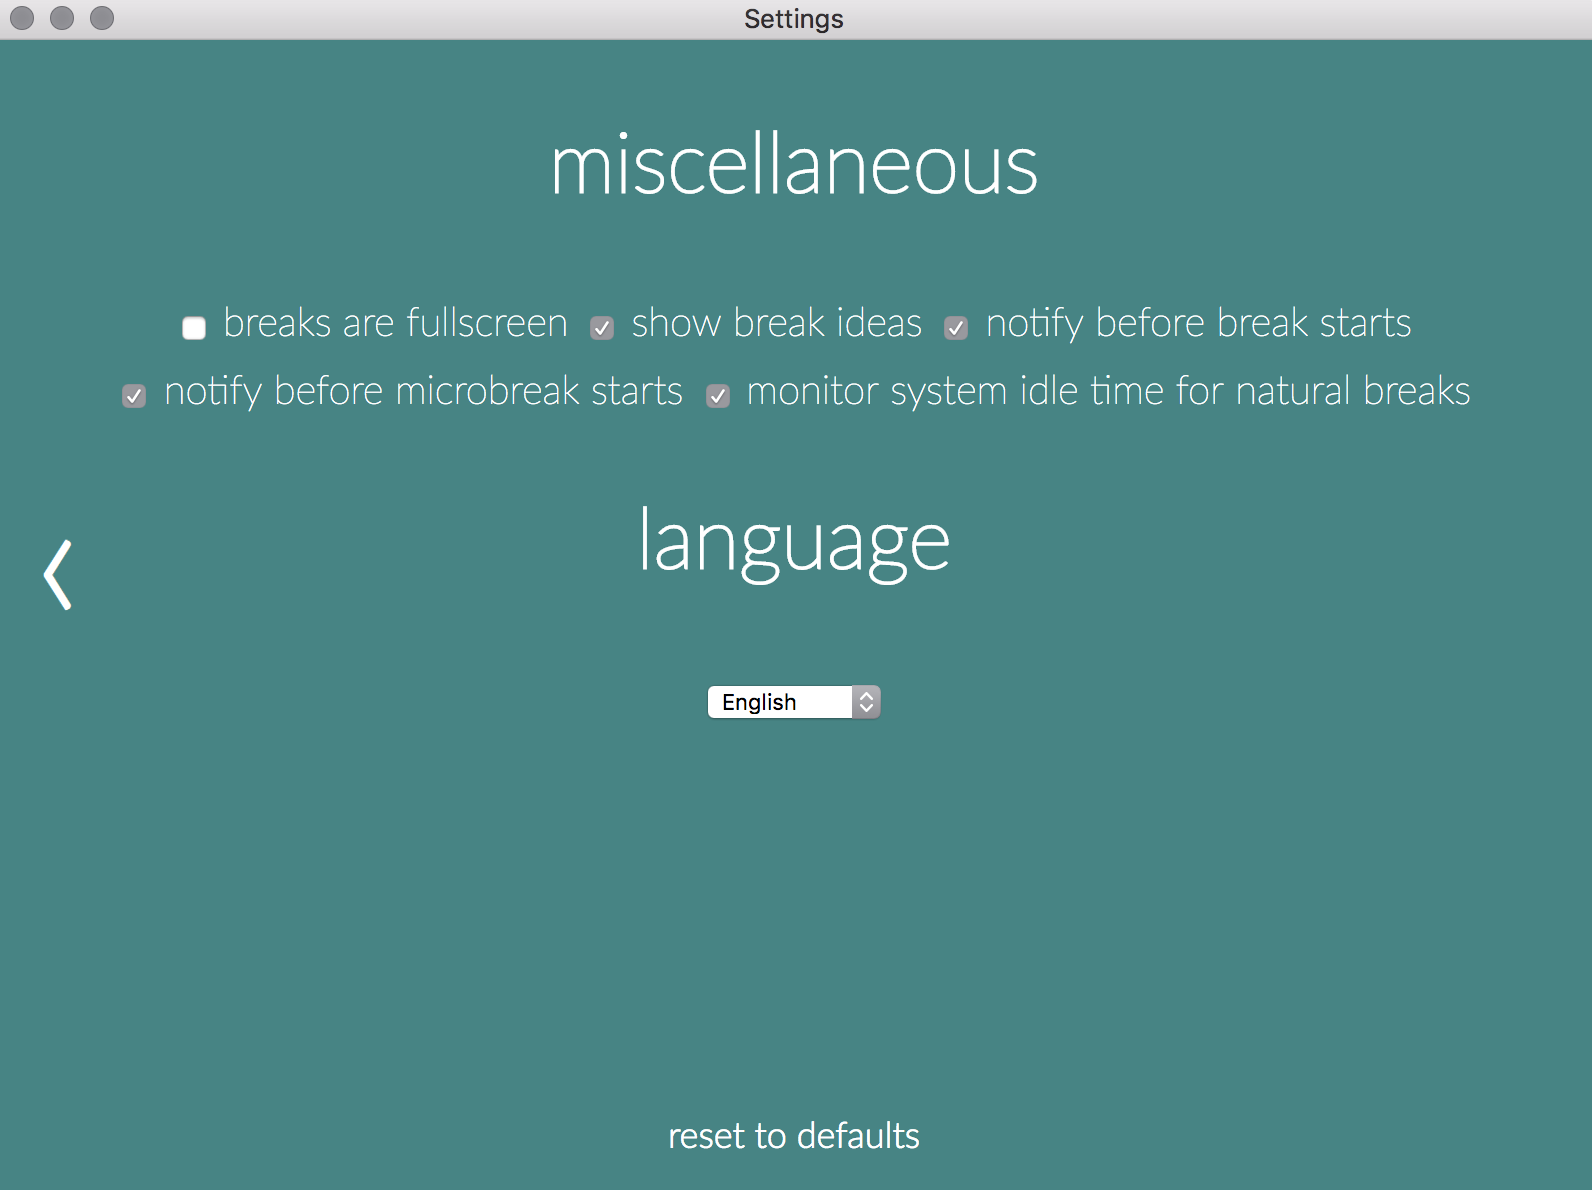
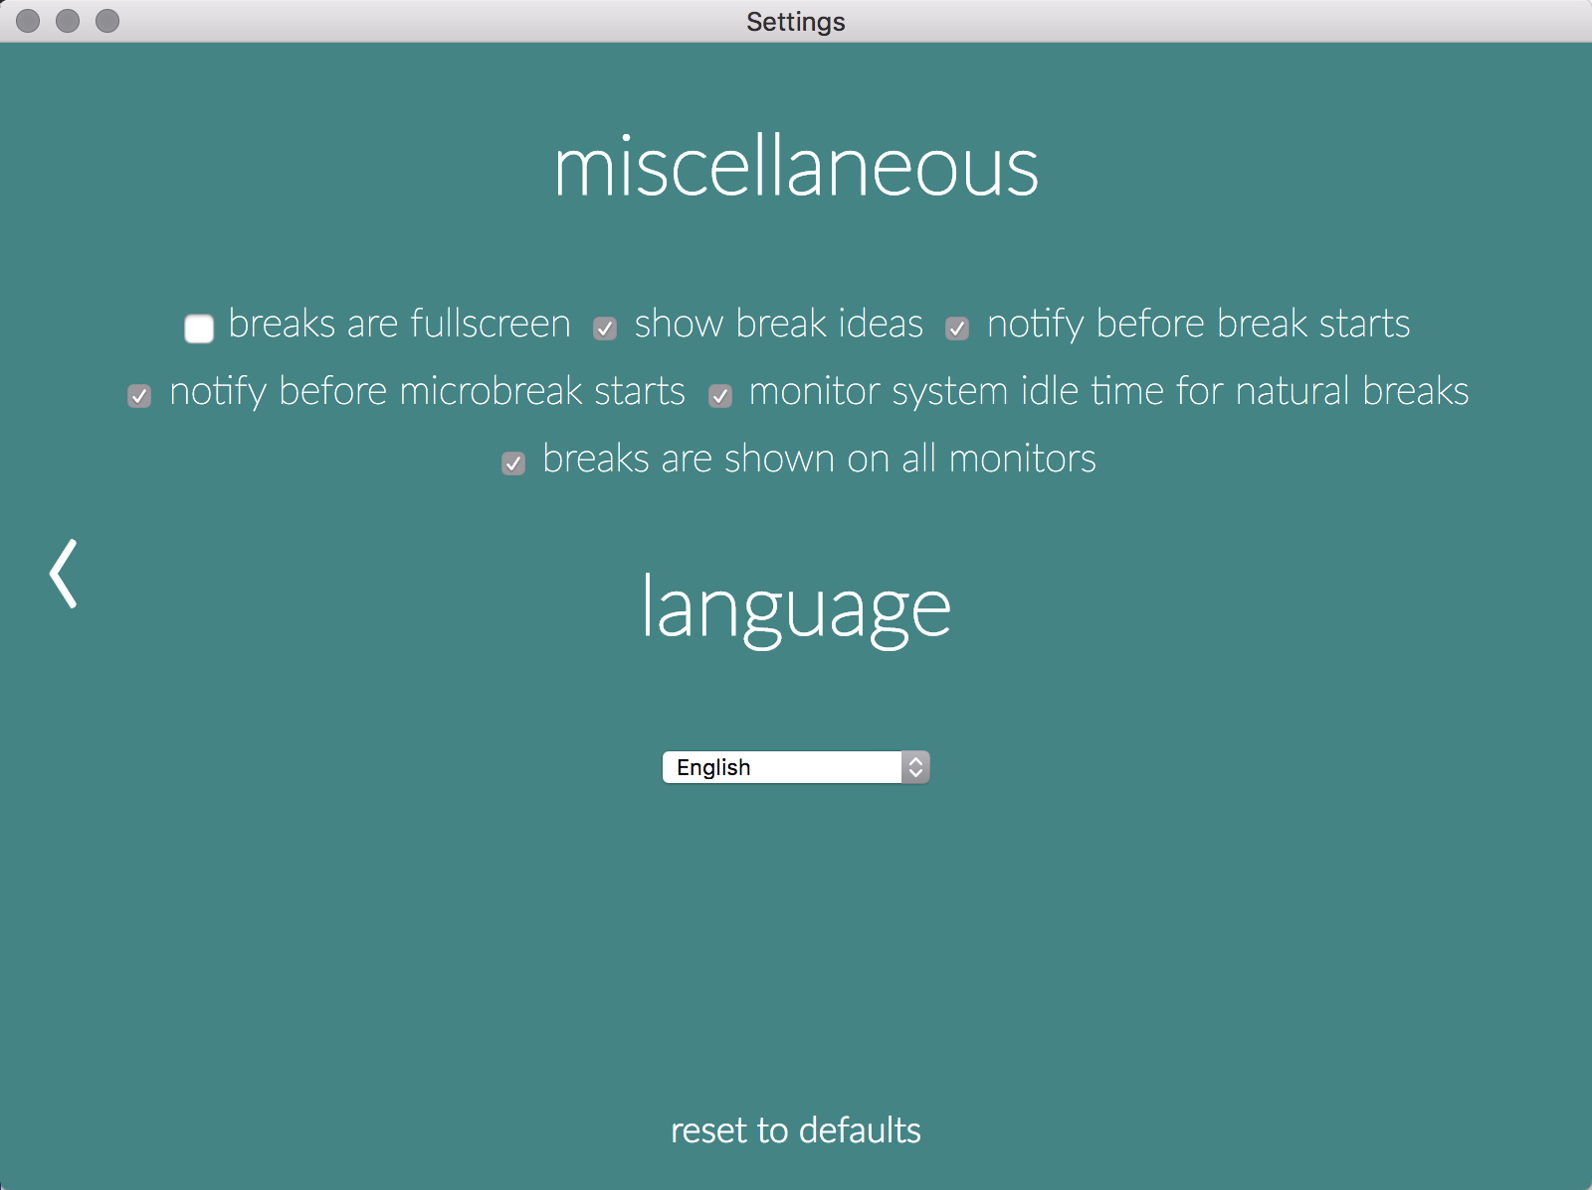
[WIP] Added multi-monitor support for breaks. (#188)
Added multi-monitor support for breaks.

diff --git a/app/main.js b/app/main.js
@@ -16,8 +16,8 @@ let breakIdeas
 let breakPlanner
 let appIcon = null
 let processWin = null
-let microbreakWin = null
-let breakWin = null
+let microbreakWins = null
+let breakWins = null
 let aboutWin = null
 let settingsWin = null
 let settings
@@ -89,16 +89,47 @@ function startPowerMonitoring () {
   })
 }
 
-function displaysX (width = 800) {
+function numberOfDisplays () {
   const electron = require('electron')
-  let theScreen = electron.screen.getDisplayNearestPoint(electron.screen.getCursorScreenPoint())
+  return electron.screen.getAllDisplays().length
+}
+
+function closeWindows (windowArray) {
+  for (let i = windowArray.length - 1; i >= 0; i--) {
+    windowArray[i].close()
+  }
+}
+
+function displaysX (displayID = -1, width = 800) {
+  const electron = require('electron')
+  let theScreen
+  if (displayID === -1) {
+    theScreen = electron.screen.getDisplayNearestPoint(electron.screen.getCursorScreenPoint())
+  } else if (displayID >= numberOfDisplays() || displayID < 0) {
+    // Graceful handling of invalid displayID
+    console.log('warning: invalid displayID to displaysX')
+    theScreen = electron.screen.getDisplayNearestPoint(electron.screen.getCursorScreenPoint())
+  } else {
+    let screens = electron.screen.getAllDisplays()
+    theScreen = screens[displayID]
+  }
   let bounds = theScreen.bounds
   return Math.ceil(bounds.x + ((bounds.width - width) / 2))
 }
 
-function displaysY (height = 600) {
+function displaysY (displayID = -1, height = 600) {
   const electron = require('electron')
-  let theScreen = electron.screen.getDisplayNearestPoint(electron.screen.getCursorScreenPoint())
+  let theScreen
+  if (displayID === -1) {
+    theScreen = electron.screen.getDisplayNearestPoint(electron.screen.getCursorScreenPoint())
+  } else if (displayID >= numberOfDisplays()) {
+    // Graceful handling of invalid displayID
+    console.log('warning: invalid displayID to displaysY')
+    theScreen = electron.screen.getDisplayNearestPoint(electron.screen.getCursorScreenPoint())
+  } else {
+    let screens = electron.screen.getAllDisplays()
+    theScreen = screens[displayID]
+  }
   let bounds = theScreen.bounds
   return Math.ceil(bounds.y + ((bounds.height - height) / 2))
 }
@@ -156,7 +187,7 @@ function startMicrobreak () {
     return
   }
   // don't start another break if break running
-  if (microbreakWin) {
+  if (microbreakWins) {
     console.log('microbreak already running')
     return
   }
@@ -166,31 +197,44 @@ function startMicrobreak () {
     })
   }
   const modalPath = `file://${__dirname}/microbreak.html`
-  microbreakWin = new BrowserWindow({
-    icon: `${__dirname}/images/stretchly_18x18.png`,
-    x: displaysX(),
-    y: displaysY(),
-    frame: false,
-    show: false,
-    backgroundColor: settings.get('mainColor'),
-    skipTaskbar: true,
-    focusable: false,
-    title: 'stretchly'
-  })
-  // microbreakWin.webContents.openDevTools()
-  microbreakWin.once('ready-to-show', () => {
-    let idea = null
-    if (settings.get('ideas')) {
-      idea = microbreakIdeas.randomElement
+  microbreakWins = []
+
+  let idea = null
+  if (settings.get('ideas')) {
+    idea = microbreakIdeas.randomElement
+  }
+
+  for (let displayIdx = 0; displayIdx < numberOfDisplays(); displayIdx++) {
+    let microbreakWinLocal = new BrowserWindow({
+      icon: `${__dirname}/images/stretchly_18x18.png`,
+      x: displaysX(displayIdx),
+      y: displaysY(displayIdx),
+      frame: false,
+      show: false,
+      backgroundColor: settings.get('mainColor'),
+      skipTaskbar: true,
+      focusable: false,
+      title: 'stretchly'
+    })
+    // microbreakWinLocal.webContents.openDevTools()
+    microbreakWinLocal.once('ready-to-show', () => {
+      microbreakWinLocal.show()
+      microbreakWinLocal.setFullScreen(settings.get('fullscreen'))
+      if (displayIdx === 0) {
+        breakPlanner.emit('microbreakStarted', true)
+      }
+      microbreakWinLocal.webContents.send('microbreakIdea', idea, settings.get('microbreakStrictMode'))
+      microbreakWinLocal.webContents.send('progress', Date.now(), settings.get('microbreakDuration'))
+      microbreakWinLocal.setAlwaysOnTop(true)
+    })
+    microbreakWinLocal.loadURL(modalPath)
+    microbreakWins.push(microbreakWinLocal)
+
+    if (!settings.get('allScreens')) {
+      break
     }
-    microbreakWin.show()
-    microbreakWin.setFullScreen(settings.get('fullscreen'))
-    breakPlanner.emit('microbreakStarted', true)
-    microbreakWin.webContents.send('microbreakIdea', idea, settings.get('microbreakStrictMode'))
-    microbreakWin.webContents.send('progress', Date.now(), settings.get('microbreakDuration'))
-    microbreakWin.setAlwaysOnTop(true)
-  })
-  microbreakWin.loadURL(modalPath)
+  }
+
   updateToolTip()
 }
 
@@ -203,7 +247,7 @@ function startBreak () {
     return
   }
   // don't start another break if break running
-  if (breakWin) {
+  if (breakWins) {
     console.log('break already running')
     return
   }
@@ -213,31 +257,44 @@ function startBreak () {
     })
   }
   const modalPath = `file://${__dirname}/break.html`
-  breakWin = new BrowserWindow({
-    icon: `${__dirname}/images/stretchly_18x18.png`,
-    x: displaysX(),
-    y: displaysY(),
-    frame: false,
-    show: false,
-    backgroundColor: settings.get('mainColor'),
-    skipTaskbar: true,
-    focusable: false,
-    title: 'stretchly'
-  })
-  // breakWin.webContents.openDevTools()
-  breakWin.once('ready-to-show', () => {
-    let idea = null
-    if (settings.get('ideas')) {
-      idea = breakIdeas.randomElement
+  breakWins = []
+
+  let idea = null
+  if (settings.get('ideas')) {
+    idea = breakIdeas.randomElement
+  }
+
+  for (let displayIdx = 0; displayIdx < numberOfDisplays(); displayIdx++) {
+    let breakWinLocal = new BrowserWindow({
+      icon: `${__dirname}/images/stretchly_18x18.png`,
+      x: displaysX(displayIdx),
+      y: displaysY(displayIdx),
+      frame: false,
+      show: false,
+      backgroundColor: settings.get('mainColor'),
+      skipTaskbar: true,
+      focusable: false,
+      title: 'stretchly'
+    })
+    // breakWinLocal.webContents.openDevTools()
+    breakWinLocal.once('ready-to-show', () => {
+      breakWinLocal.show()
+      breakWinLocal.setFullScreen(settings.get('fullscreen'))
+      if (displayIdx === 0) {
+        breakPlanner.emit('breakStarted', true)
+      }
+      breakWinLocal.webContents.send('breakIdea', idea, settings.get('breakStrictMode'))
+      breakWinLocal.webContents.send('progress', Date.now(), settings.get('breakDuration'))
+      breakWinLocal.setAlwaysOnTop(true)
+    })
+    breakWinLocal.loadURL(modalPath)
+    breakWins.push(breakWinLocal)
+
+    if (!settings.get('allScreens')) {
+      break
     }
-    breakWin.show()
-    breakWin.setFullScreen(settings.get('fullscreen'))
-    breakPlanner.emit('breakStarted', true)
-    breakWin.webContents.send('breakIdea', idea, settings.get('breakStrictMode'))
-    breakWin.webContents.send('progress', Date.now(), settings.get('breakDuration'))
-    breakWin.setAlwaysOnTop(true)
-  })
-  breakWin.loadURL(modalPath)
+  }
+
   updateToolTip()
 }
 
@@ -246,13 +303,13 @@ function finishMicrobreak (shouldPlaySound = true) {
   if (shouldPlaySound) {
     processWin.webContents.send('playSound', settings.get('audio'))
   }
-  if (microbreakWin) {
+  if (microbreakWins) {
     if (process.platform === 'darwin') {
       // get focus on the last app
       Menu.sendActionToFirstResponder('hide:')
     }
-    microbreakWin.close()
-    microbreakWin = null
+    closeWindows(microbreakWins)
+    microbreakWins = null
     breakPlanner.nextBreak()
   }
   updateToolTip()
@@ -263,13 +320,13 @@ function finishBreak (shouldPlaySound = true) {
   if (shouldPlaySound) {
     processWin.webContents.send('playSound', settings.get('audio'))
   }
-  if (breakWin) {
+  if (breakWins) {
     if (process.platform === 'darwin') {
       // get focus on the last app
       Menu.sendActionToFirstResponder('hide:')
     }
-    breakWin.close()
-    breakWin = null
+    closeWindows(breakWins)
+    breakWins = null
     breakPlanner.nextBreak()
   }
   updateToolTip()
@@ -307,10 +364,10 @@ function loadIdeas () {
 
 function pauseBreaks (milliseconds, keepAfterPowerResume = false) {
   isOnIndefinitePause = keepAfterPowerResume
-  if (microbreakWin) {
+  if (microbreakWins) {
     finishMicrobreak(false)
   }
-  if (breakWin) {
+  if (breakWins) {
     finishBreak(false)
   }
   breakPlanner.pause(milliseconds)
@@ -463,13 +520,13 @@ function getTrayMenu () {
     }, {
       label: i18next.t('main.resetBreaks'),
       click: function () {
-        if (microbreakWin) {
-          microbreakWin.close()
-          microbreakWin = null
+        if (microbreakWins) {
+          closeWindows(microbreakWins)
+          microbreakWins = null
         }
-        if (breakWin) {
-          breakWin.close()
-          breakWin = null
+        if (breakWins) {
+          closeWindows(breakWins)
+          breakWins = null
         }
         breakPlanner.reset()
         updateToolTip()
@@ -520,7 +577,7 @@ function getTrayMenu () {
 function updateToolTip () {
   // TODO this needs to be refactored, was moved here to be able to use i18next
   let toolTipHeader = i18next.t('main.toolTipHeader')
-  if (microbreakWin || breakWin) {
+  if (microbreakWins || breakWins) {
     appIcon.setToolTip(toolTipHeader)
   } else {
     let statusMessage = ''

diff --git a/app/settings3.js b/app/settings3.js
@@ -30,7 +30,8 @@ ipcRenderer.on('renderSettings', (event, data) => {
 
 document.getElementById('defaults').addEventListener('click', function (e) {
   ipcRenderer.send('set-default-settings', ['fullscreen', 'ideas',
-    'breakNotification', 'microbreakNotification', 'naturalBreaks'])
+    'breakNotification', 'microbreakNotification', 'naturalBreaks',
+    'allScreens'])
 })
 
 document.getElementById('language').addEventListener('change', function (e) {

diff --git a/app/settings3.html b/app/settings3.html
@@ -27,6 +27,10 @@
         <input type="checkbox" value="naturalBreaks" class="enable">
         <span data-i18next="settings3.monitorIdleTime"></span>
       </div>
+      <div class="enabled">
+        <input type="checkbox" value="allScreens" class="enable">
+        <span data-i18next="settings3.showOnAllScreens"></span>
+      </div>
       <div class="previous">
         <a href="settings2.html" title="more settings">&lsaquo;</a>
       </div>

diff --git a/app/utils/defaultSettings.js b/app/utils/defaultSettings.js
@@ -16,6 +16,7 @@ module.exports = {
   fullscreen: false,
   ideas: true,
   naturalBreaks: true,
+  allScreens: true,
   useIdeasFromSettings: false,
   language: 'en',
   notifyNewVersion: true,

diff --git a/README.md b/README.md
@@ -52,6 +52,7 @@ Microbreaks and breaks can be customized:
 - you can disable showing of break ideas
 - you can disable showing of break and microbreak notifications
 - you can disable monitoring of system idle time for natural breaks (when user leaves and after return idle time is greater then break duration, *stretchly* will reset breaks)
+- you can disable showing breaks on all of your monitors
 - you can choose language for interface
 
 <img src="https://raw.githubusercontent.com/hovancik/stretchly/master/stretchly-settings-website-3.png" height="340">
@@ -146,6 +147,7 @@ Before implementing a feature, please open an Issue first, so we can be sure tha
 - Zhivko Kabaivanov, @unholyHub
 - sergiopjf, @sergiopjf
 - William Chang, @wilicw
+- Fahim Dalvi, @fdalvi. [fdalvi.github.io](https://fdalvi.github.io)
 
 ### Humans and Tools
  - https://github.com/typefoo/node-icns

diff --git a/CHANGELOG.md b/CHANGELOG.md
@@ -12,6 +12,7 @@ and this project adheres to [Semantic Versioning](http://semver.org/).
 - AppX and web installer for Windows
 - ability to change install directory for Windows
 - abiltity to install per user or per machine on Windows
+- Multi-display support added and enabled by default
 
 ### Fixed
 - style for long names of schemes
